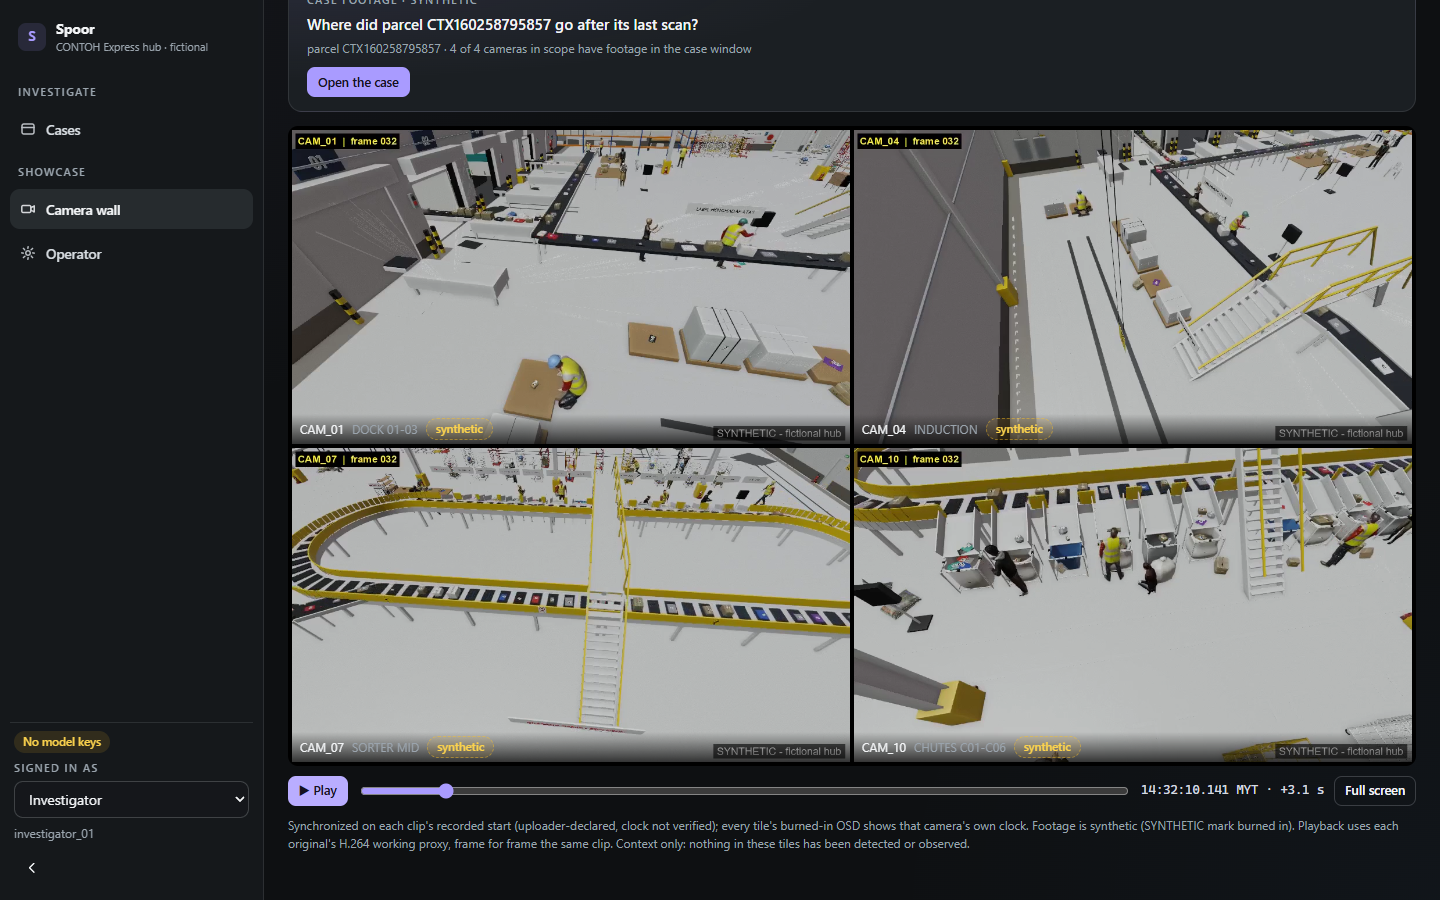
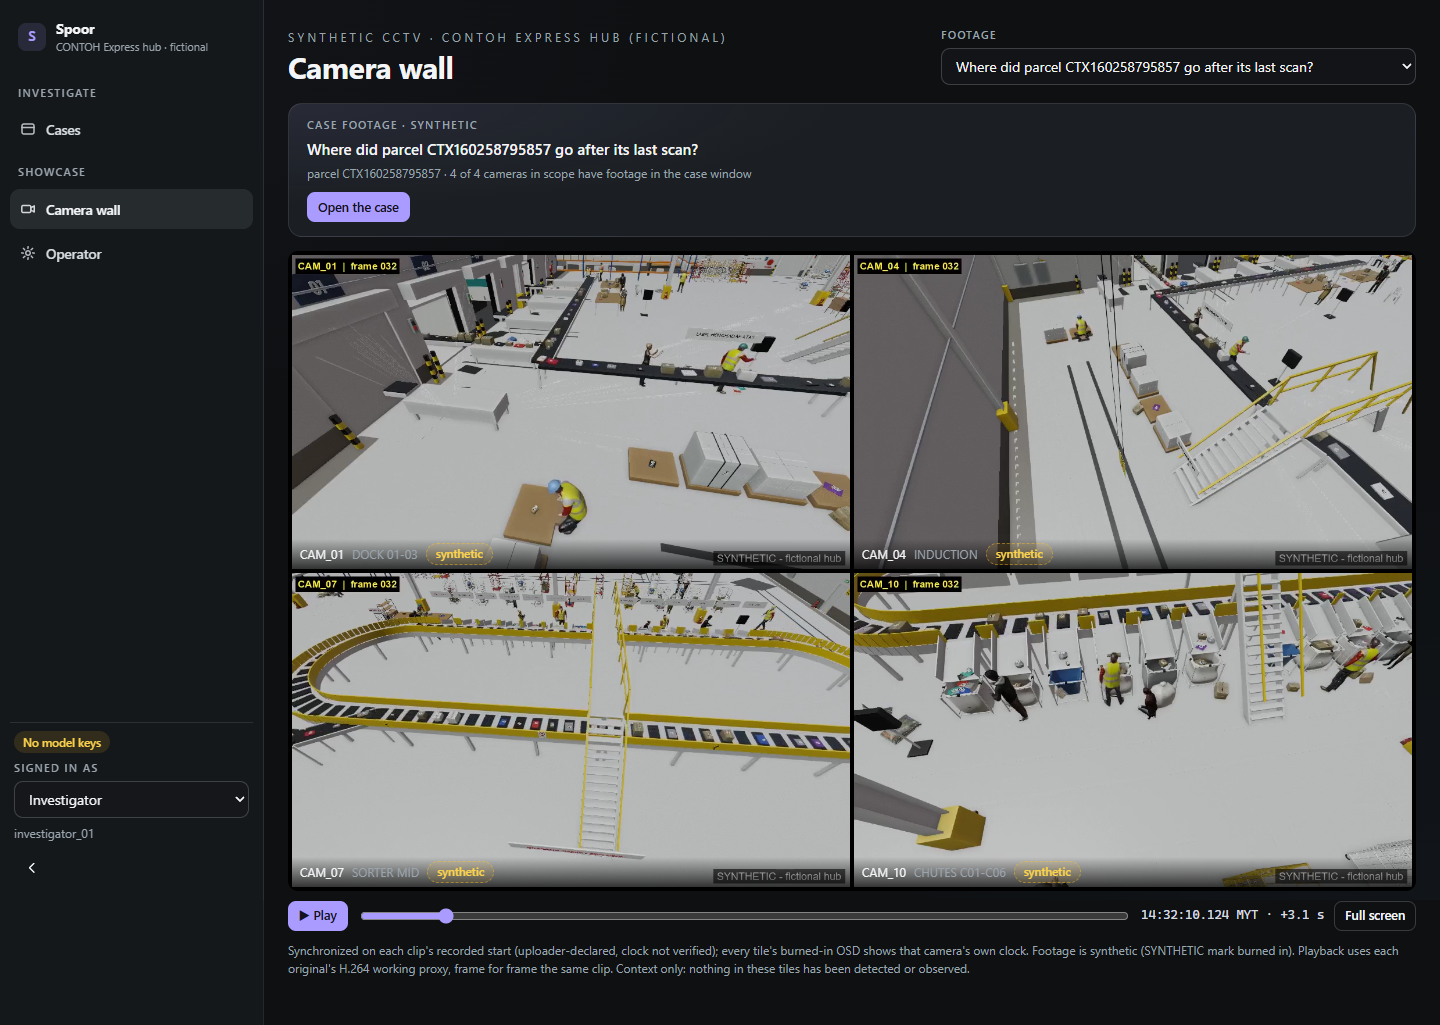
Camera wall adaptive grid + enlarge, review shots re-taken (review 010 approved)

diff --git a/frontend/src/components/wall/CameraWall.tsx b/frontend/src/components/wall/CameraWall.tsx
@@ -32,6 +32,10 @@ export default function CameraWall({ tiles, title }: { tiles: WallTile[]; title:
   const pages = Math.max(1, Math.ceil(tiles.length / PAGE));
   const shown = tiles.slice(page * PAGE, page * PAGE + PAGE);
   const cols = wallColumns(shown.length);
+  // Click a tile to enlarge it; the others shrink to a strip underneath (review 008 Q1). Click again / Esc to restore.
+  const [focus, setFocus] = useState<string | null>(null);
+  const focused = focus && shown.some((t) => t.key === focus) ? focus : null;
+  const strip = Math.max(1, Math.min(shown.length - 1, 8));
   const videos = useRef(new Map<string, HTMLVideoElement>());
   const [spans, setSpans] = useState<Record<string, { start: number; duration: number }>>({});
   const clockRef = useRef<Clock>({ playing: false, t: 0 });
@@ -108,15 +112,21 @@ export default function CameraWall({ tiles, title }: { tiles: WallTile[]; title:
   const seek = (t: number) => setClock({ playing: clockRef.current.playing, t });
   const turn = (p: number) => {
     setClock({ ...clockRef.current, playing: false });
+    setFocus(null);
     setPage(p);
   };
 
   return (
     <div className="sp-wall" ref={wallRef} data-cols={cols} data-ready={ready > 0}
-      onKeyDown={(e) => { if (e.key === " " && (e.target as HTMLElement).tagName !== "BUTTON") { e.preventDefault(); toggle(); } }}>
-      <div className="sp-wall-grid" style={{ gridTemplateColumns: `repeat(${cols}, minmax(0, 1fr))` }} aria-label={title}>
+      onKeyDown={(e) => {
+        if (e.key === "Escape" && focused) setFocus(null);
+        if (e.key === " " && (e.target as HTMLElement).tagName !== "BUTTON") { e.preventDefault(); toggle(); }
+      }}>
+      <div className="sp-wall-grid" data-focus={focused ? "true" : undefined} aria-label={title}
+        style={{ gridTemplateColumns: `repeat(${focused ? strip : cols}, minmax(0, 1fr))` }}>
         {shown.map((tile) => (
-          <Tile key={tile.key} tile={tile} report={report} register={register} />
+          <Tile key={tile.key} tile={tile} report={report} register={register} focused={focused === tile.key}
+            onSelect={() => setFocus((f) => (f === tile.key ? null : tile.key))} />
         ))}
       </div>
       <div className="sp-wall-bar" role="group" aria-label="Wall playback">
@@ -150,8 +160,8 @@ export default function CameraWall({ tiles, title }: { tiles: WallTile[]; title:
   );
 }
 
-function Tile({ tile, register, report }: { tile: WallTile; report: (key: string, start: number, duration: number) => void;
-  register: (key: string, el: HTMLVideoElement | null) => void }) {
+function Tile({ tile, register, report, focused, onSelect }: { tile: WallTile; focused: boolean; onSelect: () => void;
+  report: (key: string, start: number, duration: number) => void; register: (key: string, el: HTMLVideoElement | null) => void }) {
   const videoRef = useCallback((el: HTMLVideoElement | null) => register(tile.key, el), [register, tile.key]);
   const pb = useResource<Playback>(tile.mediaId ? `/v1/media/${tile.mediaId}/playback` : null);
   const [failed, setFailed] = useState(false);
@@ -163,7 +173,11 @@ function Tile({ tile, register, report }: { tile: WallTile; report: (key: string
     if (start !== null && duration > 0) report(tile.key, start, duration);
   }, [start, duration, report, tile.key]);
   return (
-    <figure className="sp-wall-tile" data-state={!tile.mediaId ? "empty" : failed ? "error" : data ? "ready" : "loading"}>
+    <figure className="sp-wall-tile" data-state={!tile.mediaId ? "empty" : failed ? "error" : data ? "ready" : "loading"}
+      data-focused={focused ? "true" : undefined} role="button" tabIndex={0} aria-pressed={focused}
+      aria-label={`${tile.camera}${tile.osd ? ` ${tile.osd}` : ""}: ${focused ? "show all cameras" : "enlarge"}`}
+      onClick={onSelect}
+      onKeyDown={(e) => { if (e.key === "Enter" || e.key === " ") { e.preventDefault(); e.stopPropagation(); onSelect(); } }}>
       {tile.mediaId && data && !failed && (
         <video ref={videoRef} src={signedUrl(data.url)} muted playsInline preload="auto"
           aria-label={`${tile.camera} original footage (working proxy)`}

diff --git a/frontend/src/components/wall/wall.css b/frontend/src/components/wall/wall.css
@@ -2,7 +2,15 @@
 .sp-wall { display: flex; flex-direction: column; gap: 10px; outline: none; }
 .sp-wall:fullscreen { background: #000; padding: 10px; justify-content: center; }
 .sp-wall-grid { display: grid; gap: 4px; background: #000; border-radius: 10px; overflow: hidden; padding: 4px; }
-.sp-wall-tile { position: relative; margin: 0; aspect-ratio: 16 / 9; background: #07080a; overflow: hidden; }
+.sp-wall-tile { position: relative; margin: 0; aspect-ratio: 16 / 9; background: #07080a; overflow: hidden; cursor: zoom-in; }
+.sp-wall-tile:focus-visible { outline: 2px solid var(--accent); outline-offset: -2px; }
+/* one tile enlarged, the rest as a strip underneath */
+.sp-wall-grid[data-focus] .sp-wall-tile[data-focused] { grid-column: 1 / -1; order: -1; cursor: zoom-out; }
+.sp-wall-grid[data-focus] .sp-wall-tile:not([data-focused]) .sp-wall-cap .sp-muted,
+.sp-wall-grid[data-focus] .sp-wall-tile:not([data-focused]) .sp-wall-cap .sp-chip,
+.sp-wall-grid[data-focus] .sp-wall-tile:not([data-focused]) .sp-wall-empty .sp-caption { display: none; }
+.sp-wall-grid[data-focus] .sp-wall-tile:not([data-focused]) .sp-wall-cap { font-size: 10.5px; padding: 2px 5px; }
+.sp-wall-grid[data-focus] .sp-wall-tile:not([data-focused]) .sp-wall-empty { font-size: 11px; padding: 4px 4px 18px; }
 .sp-wall-tile video { width: 100%; height: 100%; object-fit: contain; display: block; background: #000; }
 .sp-wall-cap { position: absolute; left: 0; right: 0; bottom: 0; display: flex; gap: 8px; align-items: center; padding: 4px 8px;
   font-size: 12px; background: linear-gradient(transparent, rgba(0, 0, 0, 0.72)); color: var(--ink-strong); pointer-events: none; }
@@ -18,7 +26,8 @@
 .sp-wall-time { font-size: 12.5px; color: var(--ink); }
 .sp-wall:fullscreen .sp-wall-grid { width: min(100%, calc((100vh - 90px) * 16 / 9)); margin: 0 auto; }
 @media (max-width: 640px) {
-  .sp-wall-grid { grid-template-columns: repeat(2, minmax(0, 1fr)) !important; }
+  .sp-wall-grid:not([data-focus]) { grid-template-columns: repeat(2, minmax(0, 1fr)) !important; }
+  .sp-wall-grid[data-focus] { grid-template-columns: repeat(3, minmax(0, 1fr)) !important; }
   .sp-wall-cap { font-size: 10.5px; gap: 5px; padding: 3px 5px; }
   .sp-wall-cap .sp-muted { display: none; }
   .sp-wall-empty { padding: 6px 6px 22px; font-size: 11.5px; }

diff --git a/frontend/tests/review/pack.spec.ts b/frontend/tests/review/pack.spec.ts
@@ -180,7 +180,13 @@ test("camera wall (review 007 #1): synchronized case footage, and the honest sta
   await page.waitForTimeout(3000);
   await page.getByTestId("wall-play").click();
   await page.waitForTimeout(800);
-  await shot(page, info, "20_camera_wall");
+  await page.evaluate(() => { window.scrollTo(0, 0); document.getElementById("main")?.scrollTo(0, 0); });
+  await shot(page, info, "20_camera_wall", true); // whole page from the top: header + wall + controls (review 008 P2 #2)
+  await page.locator(".sp-wall-tile").nth(1).click();
+  await expect(page.locator(".sp-wall-tile[data-focused]")).toHaveCount(1);
+  await page.waitForTimeout(800);
+  await page.evaluate(() => { window.scrollTo(0, 0); document.getElementById("main")?.scrollTo(0, 0); });
+  await shot(page, info, "25_camera_wall_enlarged", true);
   await page.goto("/wall?scenario=S2");
   await expect(page.getByText(/not written yet|not in the manifest|Renders not produced yet/).first()).toBeVisible();
   await shot(page, info, "21_camera_wall_no_renders");

diff --git a/frontend/tests/e2e/smoke.spec.ts b/frontend/tests/e2e/smoke.spec.ts
@@ -170,3 +170,18 @@ test("camera wall: synchronized tiles from imported footage, honest states, no t
   }
   expect(urls.filter((u) => TRUTH.test(u))).toEqual([]);
 });
+
+test("camera wall: click enlarges one tile, the rest become a strip; click again restores", async ({ page }) => {
+  const caseId = await firstCase(page);
+  await page.goto(`/wall?case=${caseId}`);
+  const tiles = page.locator(".sp-wall-tile");
+  await expect(tiles.first()).toBeVisible();
+  const n = await tiles.count();
+  await tiles.nth(0).click();
+  await expect(page.locator(".sp-wall-tile[data-focused]")).toHaveCount(1);
+  const big = await tiles.nth(0).boundingBox();
+  const small = n > 1 ? await tiles.nth(1).boundingBox() : null;
+  if (small) expect(big!.width).toBeGreaterThan(small.width * 1.5);
+  await tiles.nth(0).click();
+  await expect(page.locator(".sp-wall-tile[data-focused]")).toHaveCount(0);
+});

diff --git a/frontend/tests/unit/playback.test.ts b/frontend/tests/unit/playback.test.ts
@@ -42,11 +42,11 @@ test("frame time on the case timeline = recorded start + pts", () => {
   assert.equal(frameUtcMs({ pts_ms: pts10, start_utc: null }, 3), null);
 });
 
-test("wall sync: clips outside their own span show no footage, grid is 1, 2x2 or 3x3", () => {
+test("wall sync: clips outside their own span show no footage; adaptive grid without empty slots", () => {
   assert.equal(wallLocalTime(5, 2, 30), 3);
   assert.equal(wallLocalTime(1, 2, 30), null);
   assert.equal(wallLocalTime(40, 2, 30), null);
-  assert.deepEqual([1, 2, 4, 5, 9].map(wallColumns), [1, 2, 2, 3, 3]);
+  assert.deepEqual([1, 2, 3, 4, 5, 6, 7, 9].map(wallColumns), [1, 2, 3, 2, 3, 3, 3, 3]);
 });
 
 test("manifest parsing keeps inputs only and refuses unsafe ids", () => {

diff --git a/frontend/src/lib/playback.ts b/frontend/src/lib/playback.ts
@@ -66,7 +66,10 @@ export function wallLocalTime(t: number, offsetS: number, durationS: number): nu
   return local < 0 || local > durationS ? null : local;
 }
 
-/** Grid for a camera wall page: 1, 2x2 or 3x3 tiles (review 007 #1). */
+/** Grid for a camera wall page with no empty slots where possible (review 008 Q1): 1, 2 or 3 in a row; 4 = 2x2;
+ * 5-6 = 3x2; 7-9 = 3x3. */
 export function wallColumns(n: number): 1 | 2 | 3 {
-  return n <= 1 ? 1 : n <= 4 ? 2 : 3;
+  if (n <= 1) return 1;
+  if (n === 2 || n === 4) return 2;
+  return 3;
 }

diff --git a/docs/DEMO_SCRIPT.md b/docs/DEMO_SCRIPT.md
@@ -44,7 +44,7 @@ clips). It never reads scenario cards or anything the evaluator scores against.
 | Time | Click | With keys: what SAM 3.1 + Muse Spark do | Screen shows | What it proves | Fallback (no key) | 🔑 |
 |---|---|---|---|---|---|---|
 | 0:00–0:08 | (Title / Cases list) | — | One line: "A customer says parcel CTX… never arrived. The scan log says where it was scanned, not where it went." | The problem, before any feature | Same | — |
-| 0:08–0:22 | Camera wall → **Full screen** → **▶ Play** | — (plain playback) | 3×3 synchronized synthetic CCTV of the scenario, each tile with its burned-in OSD clock and SYNTHETIC mark; the complaint line from `case_input.json` above it | The footage is the raw material: many cameras, no single one tells the story | Same. Tiles not rendered or not imported say so; nothing stands in for them | — |
+| 0:08–0:22 | Camera wall → **Full screen** → **▶ Play** | — (plain playback) | All of S2's cameras, synchronized, in `case_input.json` order (6 cameras = 3×2; 4 = 2×2, 7–9 = 3×3); click one tile to enlarge it, the rest shrink to a strip. Each tile with its burned-in OSD clock and SYNTHETIC mark; the complaint line from `case_input.json` above it | The footage is the raw material: many cameras, no single one tells the story | Same. Tiles not rendered or not imported say so; nothing stands in for them | — |
 | 0:22–0:35 | **Open the case** | — | Question, waybill, cameras in scope, model analysis On | The case starts from the waybill the customer gave: identity comes from scans, not from guessing which box is which | Model analysis shows Off (no API key) | — |
 | 0:35–1:00 | **Show where it was last confirmed** → **▶ Play** in the source panel | SAM 3.1 is prompted on the read-point camera's frame at the last scan (a box on the parcel) and tracks it forward in that clip; its frames become video observations. Last seen moves from the scan to the last frame on a confirmed track, only if the verifier accepts it | The read point in 3D, the camera that sees it, the original frame with SHA-256; Play runs the clip from 3 s before the scan, Pause lands on the exact original frame | Last seen is graded (fixed scan > handheld > video on a confirmed track). A divert confirmation is the sorter's word, not a new label read | Scan-based last seen only. Play still works and is labelled "context, not an observation": nothing in it was detected | 🔑 SAM 3.1 |
 | 1:00–1:15 | Timeline → open "clock warnings" | — | One timeline: camera lanes with ± hatching, scanner clock "not synchronized", handheld late uploads | Clocks are checked or explicitly warned (PRD §29); simulated inputs stay labelled | Same | — |

diff --git a/review/log.md b/review/log.md
@@ -31,3 +31,7 @@
 2026-10-30 06:01 · frontend · req 008 sent · review 007 fixes 1–4: camera wall /wall (manifest + case_input only, SHA-matched tiles, honest 'renders not produced yet'), source-panel play/pause (proxy playback, pause = exact original frame, still context), keys-first DEMO_SCRIPT (problem → wall → case; npm run backend:keys), eval headline = S1–S5 with renders+truth else control + caveat (now: fallback, manifest not written); tests: typecheck, lint, unit 16, e2e 16, build, pack 20, pytest 216
 2026-10-30 06:15 · builder · review 006 fixes in progress. P0: #1 upright turn + total lean cap (reach adaptation stacked to 2 rad) + new QA held_clip_head; #2 pusher 0.52 m behind posts, less lean; #3 = XO-1 stair handrail cut by the old follow-cam's near clip (evidence req009/); #4 new QA parcel_overlap found 5 causes (opener grid pile, dock diagonal pull/hold, inductor pull + carry arc into the feed queue, collector→feed corner, bag drops) — all fixed in code; #5 head world rate ≤ 12°/frame in the solver. P1: matte boxy lumpy sacks, sack placed at its rest pose (30 cm jump at let-go), follow-on tasks instead of idling, procedural HMI UI. S1 crash (feed_pos after window) + S0 story parcel fallback fixed. Test runs ongoing.
 2026-10-30 06:27 · reviewer · review 008 · camera wall + play + keys-first script APPROVED (F4 ticked). Hook layout: adaptive grid, no empty slots, click-to-enlarge. One site per scenario agreed. P2: root pytest testpaths
+2026-10-30 06:39 · builder · committed approved frontend F3/F4/F5 + review 007 fixes locally (no push); root pytest.ini testpaths=backend/tests (review 008 P2 #1): 216 passed from the root
+2026-10-30 06:44 · frontend · req 010 sent · review 008 follow-ups: adaptive wall grid without empty slots (4=2×2, 5–6=3×2, 7–9=3×3, case_input order), click/Enter enlarges a tile with the rest as a strip, 20_camera_wall re-shot from the top + 25_enlarged; tests: typecheck, lint, unit 16, e2e wall 4/4, build
+2026-10-30 06:59 · reviewer · review 010 · adaptive wall + enlarge APPROVED. Waiting on builder req 009 (review 006 fixes)
+2026-10-30 07:31 · reviewer · review 006b · builder reply accepted (pole = rail sliced by follow-cam near clip; break table stays + barrier; clip label deferred). Waiting on req 009

diff --git a/review/replies/006_builder_reply.md b/review/replies/006_builder_reply.md
@@ -1,0 +1,22 @@
+# Reply to review 006 (builder)
+
+Fixes and numbers are in request 009. Two answers that need evidence rather than a fix:
+
+## P0 #3: the "brown pole jumping between positions" is the XO-1 crossover stair's handrail, not a prop
+- **Evidence:**
+  - `assets/hub/build/qa/review/req009/p0_3_pole_is_xo1_handrail.png`: the bagger's frames f27/f81/f163/f190, re-rendered with the fixed follow-cam. The diagonal member is the stair's yellow rail, and it stays put.
+  - A scene query found no thin, long, animated object within 4 m of the bag-change route: no prop, no broom, no hook.
+  - The bagger's only children are body, vest and hard hat.
+- **Cause:** the old follow-cam put its near clip plane 0.7 m in front of the head. As the camera moved, that plane sliced the static rail at different points, so the visible piece seemed to jump.
+- **Fix:** follow-cam placement. The rig's facing is now measured from the hips; the old value was ~90° off. There are 8 angles plus high views, and positions enclosed by walls or lorry bodies are scored down, so dock follow-cams now stand in the hall (`dock_followcam_new.png`).
+- **In the CCTV renders nothing changes:** the rail is static and was always there.
+
+## P2 #12: break table
+- It sits 3.35 m north of the collector's tail at (4.55, 31.35), in Z11.
+- I checked moving it to the free floor beside the supervisor office (Z13). No camera sees that spot, so the break pair would just vanish from the footage.
+- The blind corner BLIND_NW (y ≥ 33.6) is the S2 story area and must stay empty of incidental people.
+- Proposal: keep it, and add a yellow pedestrian barrier between the table and the collector/dock lane in the next build pass. Say if you'd rather I move it out of view.
+
+## P2 #11: follow-cam `clip: ?`
+- Not done yet. Contact workers have no source clip per frame (one solved action); the right label is the station phase (reach / pull / hold / turn / place, walk, push...).
+- This needs every station to write its phase per frame. It's queued after the scenario renders start.

diff --git a/review/requests/010_request.md b/review/requests/010_request.md
@@ -1,0 +1,28 @@
+# Request 010 — Frontend: review 008 follow-ups (wall layout, re-shot 20)
+
+From the frontend agent. (009 is reserved for the builder.)
+
+## 1. Changed since last request
+- **Q1, the hook layout.** The grid now adapts with no empty slots: 2 → 2×1, 3 → 3×1, 4 → 2×2, 5–6 → 3×2, 7–9 → 3×3
+  (`wallColumns`, unit-tested). Scenario tiles keep the camera order from `case_input.json`.
+  - Click a tile, or press Enter/Space on it, to enlarge it. It goes full width and the other tiles shrink to a strip
+    underneath. Click it again or press Esc to restore. All tiles stay on the same wall clock.
+  - New e2e test covers it.
+  - The demo script now says: S2 with all of its cameras (6 → 3×2).
+- **P2 #2.** `20_camera_wall.png` was re-shot from the top of the page as a full page, so the "Case footage · synthetic"
+  header now shows. New `25_camera_wall_enlarged.png`.
+- The builder's manifest now exists: `/wall?scenario=S2` reads "S2 · Removal into the blind spot (0/6 rendered)" and shows
+  the complaint and "Renders not produced yet" with all 6 camera IDs (`21_camera_wall_no_renders.png`).
+
+## 2. Check these
+- `frontend/review_pack/desktop/20_camera_wall.png`, `25_camera_wall_enlarged.png`, `21_camera_wall_no_renders.png`
+  (+ the same names under `mobile/`).
+- `frontend/src/components/wall/CameraWall.tsx`, `frontend/src/components/wall/wall.css`, `frontend/src/lib/playback.ts`.
+- Tests: typecheck ✓, lint ✓, unit 16/16 ✓, e2e wall/a11y/playback 4/4 ✓ (incl. the new enlarge test), `next build` ✓.
+
+## 3. Known issues
+- On phones (≤ 640 px), the grid is always 2 columns, so 5 or 7 cameras leave one empty slot there.
+- The real S2 wall and the F1/F2 captures wait for the renders.
+
+## 4. Questions
+None.

diff --git a/review/reviews/006_review_b.md b/review/reviews/006_review_b.md
@@ -1,0 +1,7 @@
+# Review 006b — answer to the builder's reply
+
+- **P0 #3 (pole): accepted, closed.** Near-clip slicing of the XO-1 rail explains every position I saw; the follow-cam fix
+  (hip-measured facing, 8 angles, enclosed spots scored down) is the right repair and also fixes the dock view (P1 #9).
+- **P2 #12 (break table): accepted — keep it in view, add the yellow pedestrian barrier.** Keeping BLIND_NW empty for S2
+  matters more. Make the break pair face each other or the table, not the camera.
+- **P2 #11 (clip label): accepted as deferred.** Station phase per frame is the better label; after the batch starts is fine.

diff --git a/review/reviews/010_review.md b/review/reviews/010_review.md
@@ -1,0 +1,5 @@
+# Review 010 — Adaptive camera wall + enlarge
+
+Verdict: **APPROVED.** Enlarged tile keeps 16:9, strip below keeps every camera visible, keyboard (Enter) works, header
+now visible. Checked: 25_camera_wall_enlarged.png. Nothing further for the wall until the S2 renders land — then
+re-shoot it with real footage for the demo opening.
